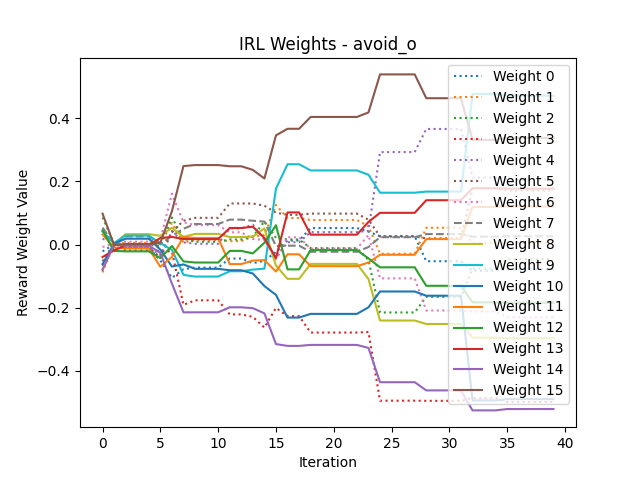
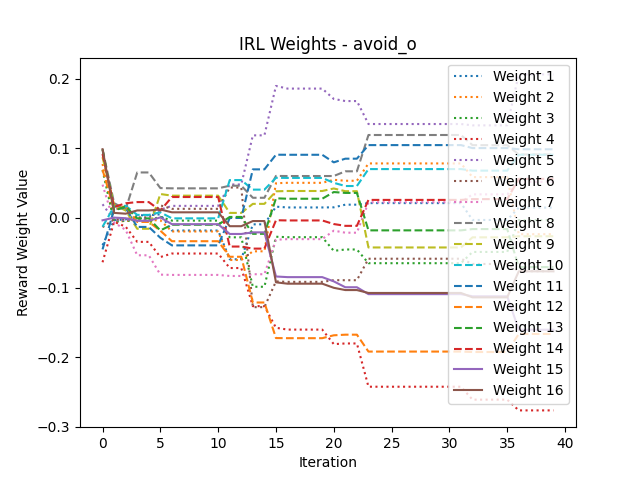
new ex1 results

diff --git a/irl.py b/irl.py
@@ -147,7 +147,7 @@ def q_learning(episodes: int, dw: DroneWorld, w):
     return nn
 
 
-def svm_tune(w, mu_e, mu_list):
+def svm_tune(mu_e, mu_list):
     # x are the training samples where the first sample is the expert feature expectation
     x = [mu_e] + mu_list
     # y are the classification labels so the expert class is 1 and everything else is classified as -1
@@ -189,7 +189,7 @@ def execute_irl(iterations: int, n_steps, gamma: float, dw: DroneWorld, traj_lis
                 w[j] = random.random() * 0.2 - 0.1  # Interval [-1, 1]
         else:
             # Tune w using as SVM maximum margin method
-            w = svm_tune(w, mu_e, mu_list)[0]
+            w = svm_tune(mu_e, mu_list)[0]
         w_list.append(w)
         if print_results:
             print(f'Iteration {i} reward weights: {w}')
@@ -221,7 +221,7 @@ def plot_weights(w_list, directory, pol_type):
     for i in range(16):
         if i < 7:
             plt.plot(x, np.array(w_list)[:, i], label=f'Weight {i + 1}', linestyle='dotted')
-        elif 7 >= i < 14:
+        elif i < 14:
             plt.plot(x, np.array(w_list)[:, i], label=f'Weight {i + 1}', linestyle='dashed')
         else:
             plt.plot(x, np.array(w_list)[:, i], label=f'Weight {i + 1}', linestyle='solid')
@@ -244,7 +244,7 @@ def plot_fe(mu_list, directory, pol_type):
     for i in range(16):
         if i < 7:
             plt.plot(x, np.array(mu_list)[:, i], label=f'FE {i + 1}', linestyle='dotted')
-        elif 7 >= i < 14:
+        elif i < 14:
             plt.plot(x, np.array(mu_list)[:, i], label=f'FE {i + 1}', linestyle='dashed')
         else:
             plt.plot(x, np.array(mu_list)[:, i], label=f'FE {i + 1}', linestyle='solid')

diff --git a/ex_1.py b/ex_1.py
@@ -1,17 +1,19 @@
+import gc
+
 import utils
 from irl import *
 
 # Change the following parameters as preferred:
 training_policies = [
-    #'avoid_o',
-    #'avoid_p',
-    'avoid_a'#,
-    #'random'
+    'avoid_o',
+    'avoid_p',
+    'avoid_a',
+    'random'
 ]
 
 n_traj = 20
-n_steps = 500
-irl_iterations = 80
+n_steps = 250
+irl_iterations = 40
 show_log = True
 generate_new_traj = True
 
@@ -81,3 +83,8 @@ if __name__ == '__main__':
 
         print(f'Expert score: {score_e}')
         print(f'Random score: {score_r}')
+
+        # Clean up to save ram
+
+        del w_list, mu_list, traj_list
+        gc.collect()

diff --git a/ex_2.py b/ex_2.py
@@ -17,10 +17,10 @@ pol_comb = [
     ['avoid_a', 'avoid_o']
 ]
 
-irl_iterations = 80
+irl_iterations = 40
 n_traj = 100
 n_traj_training = 20
-n_steps = 500
+n_steps = 250
 gamma = 0.99
 show_log = True
 generate_new_traj = True  # Flag that decides whether new trajectories should be recorded
